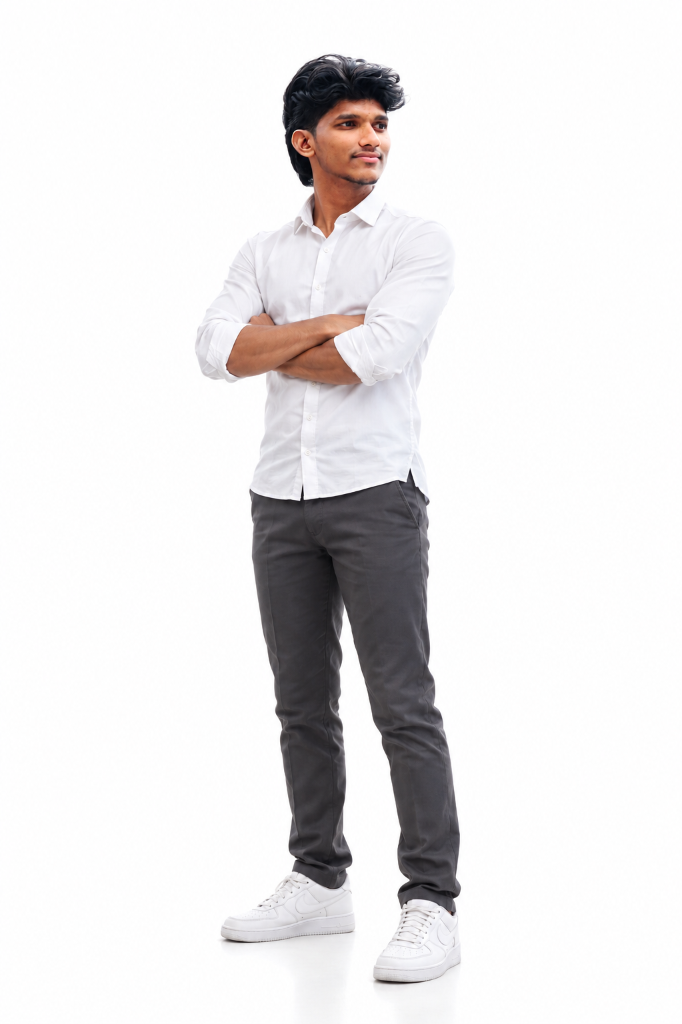
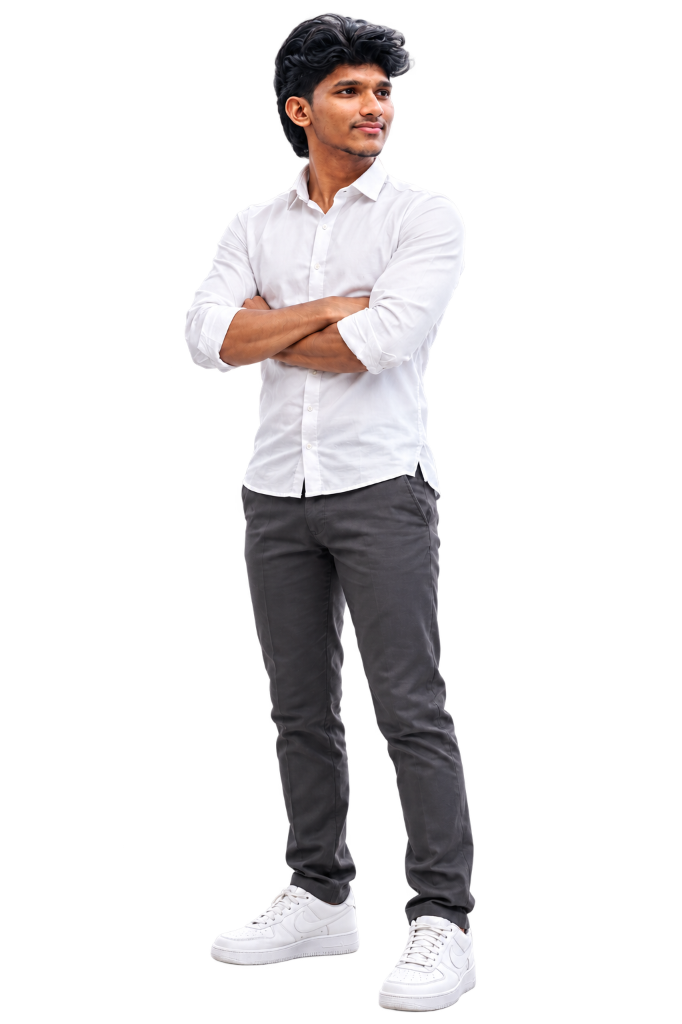
style: replace standing portrait with transparent background version

Changed region(s): [[0.2463, 0.2188, 0.7082, 1.0], [0.3695, 0.0, 0.6158, 0.25], [0.6158, 0.3125, 0.6466, 0.3438]]

diff --git a/src/components/HologramBody.tsx b/src/components/HologramBody.tsx
@@ -22,11 +22,9 @@ function Particles({ isInView }: { isInView: boolean }) {
   // Custom shader material for the 3D code matrix look
   const shaderMaterial = useMemo(() => new THREE.ShaderMaterial({
     uniforms: {
-      uTime: { value: 0 },
       uProgress: { value: 0 }
     },
     vertexShader: `
-      uniform float uTime;
       uniform float uProgress;
       
       attribute vec3 originalPos;
@@ -38,15 +36,13 @@ function Particles({ isInView }: { isInView: boolean }) {
       void main() {
         vColor = color;
         
+        // Assembles neatly from chaotic positions to a perfectly flat, clean grid
         vec3 pos = mix(randomPos, originalPos, uProgress);
-        
-        pos.y += sin(uTime * 2.0 + pos.x * 10.0) * 0.02 * uProgress;
-        pos.z += cos(uTime * 1.5 + pos.y * 10.0) * 0.03 * uProgress;
 
         vec4 mvPosition = modelViewMatrix * vec4(pos, 1.0);
         
-        // Smaller points to look like tiny distinct particles!
-        gl_PointSize = (5.0 / -mvPosition.z); 
+        // Fixed, crisp point size for that clean "tiny dots" look
+        gl_PointSize = (4.0 / -mvPosition.z); 
         gl_Position = projectionMatrix * mvPosition;
       }
     `,
@@ -55,17 +51,14 @@ function Particles({ isInView }: { isInView: boolean }) {
       void main() {
         vec2 xy = gl_PointCoord.xy - vec2(0.5);
         float ll = length(xy);
-        if(ll > 0.5) discard; 
+        if(ll > 0.5) discard; // Keep them as perfect tiny circles
         
-        // Make the colors EXTREMELY bright and clear so the white shirt pops!
-        vec3 brightColor = min(vColor * 1.5, vec3(1.0));
-        
-        gl_FragColor = vec4(brightColor, 1.0 - (ll * 2.0));
+        // Pure true color, no glowing/blurring
+        gl_FragColor = vec4(vColor, 1.0);
       }
     `,
     transparent: true,
-    depthWrite: false,
-    blending: THREE.AdditiveBlending
+    depthWrite: true,
   }), []);
 
   const [geometry, setGeometry] = useState<THREE.BufferGeometry | null>(null);
@@ -78,8 +71,8 @@ function Particles({ isInView }: { isInView: boolean }) {
       const ctx = canvas.getContext('2d');
       if (!ctx) return;
       
-      // Extremely high resolution for clear face shape
-      const width = 280;
+      // High resolution base
+      const width = 300;
       const aspect = img.height / img.width;
       const height = aspect * width;
       
@@ -89,13 +82,18 @@ function Particles({ isInView }: { isInView: boolean }) {
       
       const imgData = ctx.getImageData(0, 0, width, height).data;
       
-      // PASS 1: Find the exact bounding box of the non-white pixels
+      // PASS 1: Find the exact bounding box
       let minX = width, maxX = 0, minY = height, maxY = 0;
       for (let y = 0; y < height; y++) {
         for (let x = 0; x < width; x++) {
           const i = (y * width + x) * 4;
-          const r = imgData[i], g = imgData[i + 1], b = imgData[i + 2], a = imgData[i + 3];
-          if (a < 128 || (r > 240 && g > 240 && b > 240)) continue;
+          const a = imgData[i + 3];
+          if (a < 128) continue;
+          
+          // Pure white background removal
+          const r = imgData[i], g = imgData[i+1], b = imgData[i+2];
+          if (r > 240 && g > 240 && b > 240) continue;
+
           if (x < minX) minX = x;
           if (x > maxX) maxX = x;
           if (y < minY) minY = y;
@@ -105,42 +103,43 @@ function Particles({ isInView }: { isInView: boolean }) {
       
       const cropW = maxX - minX;
       const cropH = maxY - minY;
-      const cropAspect = cropH / cropW; // True aspect ratio of just the body!
+      const cropAspect = cropH / cropW;
       
       const positions = [];
       const originalPos = [];
       const randomPos = [];
       const colors = [];
       
-      // PASS 2: Generate particles relative to the Bounding Box!
-      for (let y = minY; y <= maxY; y++) {
-        for (let x = minX; x <= maxX; x++) {
+      // PASS 2: Generate perfectly spaced tiny dots!
+      // We skip every other pixel (+= 2) to create physical gaps between the dots, making the "dot formation" extremely clear!
+      for (let y = minY; y <= maxY; y += 2) {
+        for (let x = minX; x <= maxX; x += 2) {
           const i = (y * width + x) * 4;
+          const a = imgData[i + 3];
+          if (a < 128) continue;
+          
           const r = imgData[i];
           const g = imgData[i + 1];
           const b = imgData[i + 2];
-          const a = imgData[i + 3];
+          if (r > 240 && g > 240 && b > 240) continue;
           
-          if (a < 128 || (r > 240 && g > 240 && b > 240)) continue;
+          const px = ((x - minX) / cropW) * 2 - 1;
+          const py = -((y - minY) / cropH) * 2 + 1;
           
-          // Map exact body bounds: Y goes from 1 (head) to -1 (feet). X goes proportional to aspect.
-          const px = ((x - minX) / cropW) * 2 - 1; // -1 to 1
-          const py = -((y - minY) / cropH) * 2 + 1; // 1 to -1
-          
-          // Correct aspect ratio distortion (scale X based on true body proportions)
           const finalPx = px * (1 / cropAspect);
           const finalPy = py;
           
-          const brightness = (r + g + b) / 3;
-          const pz = (brightness / 255) * 0.8; 
+          // PERFECTLY FLAT. No Z-distortion. It's just a clean 2D image made of dots.
+          const pz = 0; 
           
           positions.push(finalPx, finalPy, pz);
           originalPos.push(finalPx, finalPy, pz);
           
+          // They fly in from all directions
           randomPos.push(
-            (Math.random() - 0.5) * 15,
-            (Math.random() * 15) + 5,
-            (Math.random() - 0.5) * 15
+            (Math.random() - 0.5) * 10,
+            (Math.random() - 0.5) * 10,
+            (Math.random() - 0.5) * 10
           );
           
           colors.push(r / 255, g / 255, b / 255);
@@ -159,19 +158,8 @@ function Particles({ isInView }: { isInView: boolean }) {
 
   useFrame((state) => {
     if (shaderMaterial && pointsRef.current) {
-      const time = state.clock.elapsedTime;
       const progress = progressSpring.get();
-      
-      shaderMaterial.uniforms.uTime.value = time;
       shaderMaterial.uniforms.uProgress.value = progress;
-      
-      // The model spins wildly when assembling (progress < 1), but settles exactly at 0 rotation when finished.
-      // We removed the mouse tracking parallax entirely.
-      const targetRotationX = 0;
-      const targetRotationY = ((1.0 - progress) * Math.PI);
-      
-      pointsRef.current.rotation.x += (targetRotationX - pointsRef.current.rotation.x) * 0.1;
-      pointsRef.current.rotation.y += (targetRotationY - pointsRef.current.rotation.y) * 0.1;
     }
   });
 

diff --git a/src/components/FooterSection.tsx b/src/components/FooterSection.tsx
@@ -81,10 +81,14 @@ export default function FooterSection() {
       {/* THE STICKY LOCK - This freezes to the screen for the final 100vh of scrolling */}
       <div className="sticky top-0 w-full h-screen flex flex-col items-center justify-center overflow-hidden pt-32 pb-24">
         
-        {/* 1. The FULL SCREEN 3D Hologram Body */}
-        {/* We give the Canvas the entire screen so the model can be massive and never get cut off! */}
-        <div className="absolute inset-0 w-full h-full z-10 flex items-center justify-center">
-          <HologramBody isInView={isInView} />
+        {/* 1. Standard Static Image (Rollback per user request) */}
+        <div className="relative w-[300px] h-[450px] md:w-[400px] md:h-[550px] z-10 flex items-center justify-center">
+          <Image 
+            src="/images/hologram-body.png" 
+            alt="Standing Portrait" 
+            fill 
+            className="object-contain"
+          />
         </div>
 
         {/* 2. The Hologram Base Platform (Typography Block) */}
